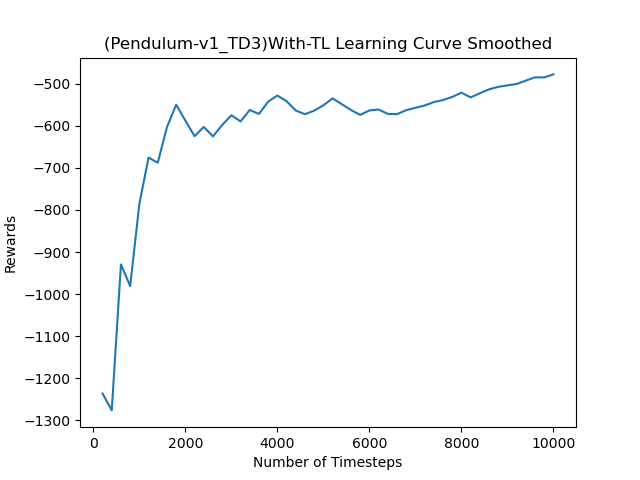
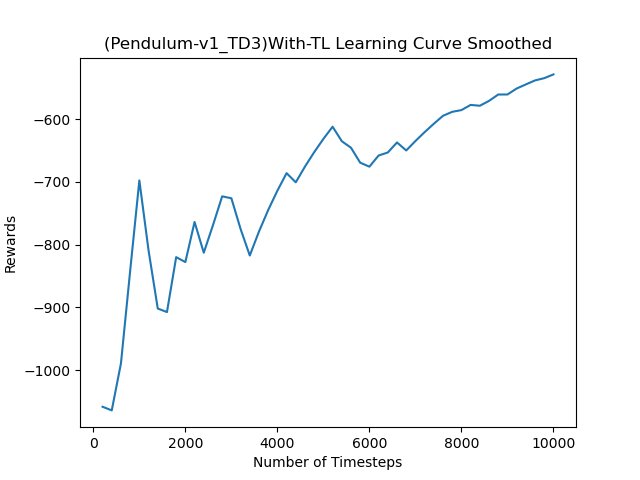
update result TD3

diff --git a/tl/main.py b/tl/main.py
@@ -10,7 +10,7 @@ start_time = time.time()
 env_name = 'Pendulum-v1'
 # for each selected algorithm, please choose algorithm supporting its action space
 # We currently focus on TD3,DDPG (for Pendulum) and DQN (for Acrobot)
-algorithm = 'DDPG'
+algorithm = 'TD3'
 #### <<<<<<<
 
 moving_window = -1
